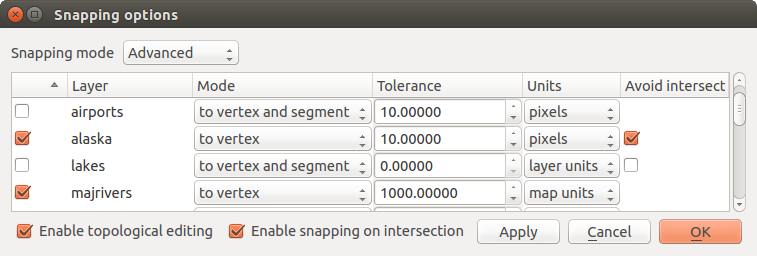
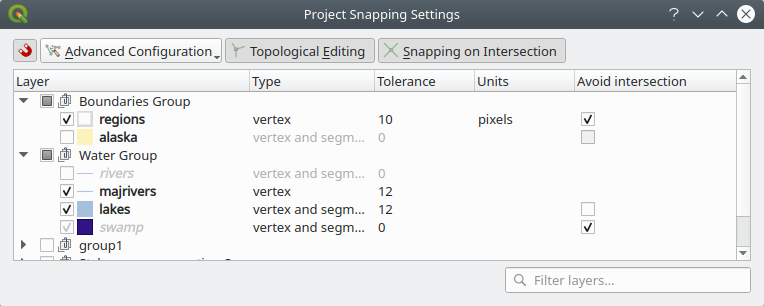
Rewords digitizing snapping options

Changed region(s): [[0.0, 0.0, 1.0, 0.9688], [0.9419, 0.4688, 1.0, 0.7188]]

diff --git a/source/docs/user_manual/working_with_vector/editing_geometry_attributes.rst b/source/docs/user_manual/working_with_vector/editing_geometry_attributes.rst
@@ -37,7 +37,8 @@ Setting the Snapping Tolerance and Search Radius
 ================================================
 
 For an optimal and accurate edit of the vector layer geometries, we need to set
-an appropriate value of snapping tolerance and search radius for features vertices.
+an appropriate value of snapping tolerance and search radius for features
+vertices.
 
 
 .. index:: Snapping tolerance
@@ -45,89 +46,88 @@ an appropriate value of snapping tolerance and search radius for features vertic
 Snapping tolerance
 ------------------
 
-Snapping tolerance is the distance QGIS uses to ``search`` for the closest
-vertex and/or segment you are trying to connect to when you set a new vertex or
-move an existing vertex. If you aren't within the snapping tolerance, QGIS
+When you add a new vertex or move an existing one, snapping tolerance is the
+distance QGIS uses to search for the closest vertex or segment you are
+trying to connect to. If you aren't within the snapping tolerance, QGIS
 will leave the vertex where you release the mouse button, instead of snapping
-it to an existing vertex and/or segment.
+it to an existing vertex or segment.
+
 The snapping tolerance setting affects all tools that work with tolerance.
 
-#. A general, project-wide snapping tolerance can be defined by choosing
-   :menuselection:`Settings -->` |options| :menuselection:`Options...`,
-   :guilabel:`Digitizing` tab.
-   You can select between 'To vertex', 'To segment' or 'To vertex and segment'
-   as default snap mode. You can also define a default snapping tolerance and
-   a search radius for vertex edits. The tolerance can be set either in map
-   units or in pixels. The advantage of choosing pixels is that the snapping
-   tolerance doesn't have to be changed after zoom operations. In our small
-   digitizing project (working with the Alaska dataset), we define the
-   snapping units in feet. Your results may vary, but something on the order
-   of 300 ft at a scale of 1:10000 should be a reasonable setting.
-#. A layer-based snapping tolerance that overrides the global snapping options
-   can be defined by choosing :menuselection:`Project --> Snapping options`.
-   It helps to enable and adjust snapping mode and tolerance on a layer basis
-   (see figure_edit_snapping_). This dialog offers three different modes to
-   select the layer(s) to snap to:
+You can enable or disabled snapping by using the |snapping| :sup:`Enable
+snapping` button on the :guilabel:`Snapping Toolbar` or pressing :kbd:`S` at any
+time while you're on the map view. The toolbar is also very convenient to
+quickly configure the snapping mode, tolerance value, and units. Nevertheless,
+the snapping configurations can be set in :menuselection:`Project --> Snapping
+Options...`.
 
-   * :guilabel:`Current layer`: only the active layer is used, a convenient way
-     to ensure topology within the layer being edited
-   * :guilabel:`All layers`: a quick and simple setting for all visible layers
-     in the project so that the pointer snaps to all vertices and/or segments.
-     In most cases it is sufficient to use this snapping mode.
-   * :guilabel:`Advanced`: if you need to edit a layer and snap its vertices to another
-     layer, ensure the target layer is checked and increase the snapping tolerance
-     to a greater value. Furthermore, snapping will never occur to a layer that
-     is not checked in the snapping options dialog, regardless of the global
-     snapping tolerance. So be sure to mark the checkbox for those layers that
-     you need to snap to.
+There are three options to select the layer(s) to snap to:
 
+* :guilabel:`All layers`: quick setting for all visible layers
+  in the project so that the pointer snaps to all vertices and/or segments.
+  In most cases, it is sufficient to use this snapping mode, but beware when
+  using it on projects with too many vector layers, as it may cause
+  slowness.
+* :guilabel:`Current layer`: only the active layer is used, a convenient way
+  to ensure topology within the layer being edited
+* :guilabel:`Advanced Configuration`: allows you to enable and adjust snapping
+  mode and tolerance on a layer basis (see figure_edit_snapping_). If you need
+  to edit a layer and snap its vertices to another, ensure the target layer
+  is checked and increase the snapping tolerance to a higher value.
+  Furthermore, snapping will not occur to a layer that is not checked in the
+  snapping options dialog.
+
+As for snapping mode, you can select between ``To vertex``, ``To segment``, and
+``To vertex and segment``.
+
+The tolerance values can be set either in the project's ``map units`` or in
+``pixels``. The advantage of choosing ``pixels`` is that it keeps the snapping
+constant at different map scales. 10 to 12 pixels is normally a good value, but
+it may depend on the DPI of your screen. On the other hand, using map units
+allows the tolerance to be related to real ground distances. For example, if you
+have a minimum distance between elements, this option can be useful to ensure
+that you don’t add vertexes too close to each other.
 
 .. _figure_edit_snapping:
 
 .. figure:: img/editProjectSnapping.png
    :align: center
 
-   Edit snapping options on a layer basis (Advanced mode)
+   Snapping options (Advanced Configuration mode)
 
-.. tip:: **Control the list of layers to snap**
+.. note::
 
-   The :guilabel:`Snapping Options` dialog is by default populated with parameters
-   (mode, tolerance, units) set in the global :guilabel:`Digitizing` tab.
-   To avoid layers being checked by default in the **Advanced** mode and hence
-   set snappable, define the :guilabel:`Default Snap mode` to ``Off``.
+   By default, only visible features (the features whose style is displayed,
+   except for layers where the symbology is "No symbols") can be snapped. You
+   can enable the snapping on invisible features by checking |unchecked|
+   :guilabel:`Enable snapping on invisible features` under
+   :menuselection:`Settings --> Options --> Digitizing` tab.
 
-.. tip:: **Quickly toggle snapping**
+.. tip:: **Enable snapping by default**
 
-   You can quickly enable or disable snapping by clicking the |snapping| :sup:`Enable
-   Snapping` icon or pressing :kbd:`S` at any time while you're in the map view.
+   You can set snapping to be enabled by default on all new projects in
+   :menuselection:`Settings --> Options --> Digitizing` tab. You can also set
+   the default snapping mode, tolerance value, and units, which will populate
+   the :guilabel:`Snapping Options` dialog.
 
-Snapping tolerance can be set in ``pixels`` or ``map units`` (the units of the
-map view). While in the **Advanced** layer selection mode, it is possible to use
-a snapping tolerance that refers to ``layer units``, the units of the reprojected
-layer when 'on-the-fly' CRS transformation is on.
 
-By default, only visible features (the features whose style is displayed,
-except for layers where the symbology is "No symbols") can be snapped.
-You can enable the snapping on invisible features by checking
-|unchecked| :guilabel:`Enable snapping on invisible features` under
-:menuselection:`Settings -->` |options| :menuselection:`Options --> Digitizing` tab.
 
 .. index:: Search radius
 
 Search radius
 --------------
 
-Search radius is the distance QGIS uses to ``search`` for the closest vertex
-you are trying to select when you click on the map. If you aren't within the
-search radius, QGIS won't find and select any vertex for editing.
-The search radius for vertex edits can be defined under :menuselection:`Settings -->`
-|options| :menuselection:`Options --> Digitizing` tab. This is the same
-place where you define the general, project-wide snapping tolerance.
+Search radius is the distance QGIS uses to ``search`` for the closest vertex you
+are trying to select when you click on the map. If you aren't within the search
+radius, QGIS won't find and select any vertex for editing. The search radius for
+vertex edits can be defined under :menuselection:`Settings -->` |options|
+:menuselection:`Options --> Digitizing` tab. This is the same place where you
+define the snapping default values.
 
-Snap tolerance and search radius are set in ``map units`` or ``pixels``, so you may
-find you need to experiment to get them set right. If you specify too big of
+Snap tolerance and search radius are set in ``map units`` or ``pixels``, so you
+may find you need to experiment to get them set right. If you specify too big of
 a tolerance, QGIS may snap to the wrong vertex, especially if you are dealing
-with a large number of vertices in close proximity. Set search radius too
+with a large number of vertices in close proximity. Set the search radius too
 small, and it won't find anything to move.
 
 
@@ -217,7 +217,7 @@ you no longer need to manually place all the vertices during digitization:
 #. Move the mouse over another vertex or segment you'd like to snap and, instead
    of the usual straight line, the digitizing rubber band represents a path from
    the last point you snapped to the current position.
-   
+
    QGIS actually uses the underlying features topology to build the shortest path
    between the two points. Tracing requires snapping to be activated in traceable
    layers to build the path. You should also snap to an existing vertex or segment
@@ -241,7 +241,7 @@ and a negative value does the opposite.
 
    This tool does not add points to existing polygon geometries even if :guilabel:`Topological editing`
    is enabled.
-   If geometry precision is activated on the edited layer, the resulting 
+   If geometry precision is activated on the edited layer, the resulting
    geometry might not exactly follow an existing geometry.
 
 .. tip:: **Quickly enable or disable automatic tracing by pressing the** :kbd:`T` **key**
@@ -405,7 +405,7 @@ Vertex tool
     workflow. This allows major improvements like taking profit of the advanced
     digitizing panel with the vertex tool while digitizing or editing objects of
     multiple layers at the same time.
-    
+
 
 For any editable vector layer, the
 |vertexToolActiveLayer| :sup:`Vertex tool (Current Layer)` provides manipulation
@@ -522,13 +522,13 @@ and your vertex position is updated. You can also select multiple rows and delet
 them altogether.
 
 .. note:: **Changed behavior in QGIS 3.4**
-    
+
    Right click on a feature will immediately show the vertex editor and lock this feature,
    thus disabling the editing of any other features. While being locked, a feature is exclusive
    for editing: Selecting and moving of vertices and segments by clicking or dragging is only possible
    for this feature. New vertices can only be added to the locked feature. Also, the vertex editor panel
    now opens itself automatically upon activating the vertex tool, and its position/docked state remembered across uses.
-  
+
 .. _figure_edit_vertex:
 
 .. figure:: img/vertex_editor_panel.png
@@ -805,7 +805,7 @@ features in the map canvas:
 #. Press the |rotateFeature| :sup:`Rotate Feature(s)` icon
 #. Then click on the feature to rotate. The feature's centroid is referenced as
    rotation center, a preview of the rotated feature is displayed and a widget
-   opens showing the current :guilabel:`Rotation` angle. 
+   opens showing the current :guilabel:`Rotation` angle.
 #. Click on the map canvas when you are satisfied with the new placement or
    manually enter the rotation angle in the text box. You can also use the
    :guilabel:`Snap to °` box to constrain the rotation values.
@@ -1113,12 +1113,12 @@ a multipolygon/multipolyline/multipoint feature is created.
      Sum, Count, Concatenation... depending on the type of the field.
      see :ref:`statistical_summary` for the full list of functions).
 
-   .. note:: 
+   .. note::
     If the layer has default values or clauses present on fields,
     these are used as the initial value for the merged feature.
 
 #. Press :guilabel:`OK` to apply the modifications. A single (multi)feature is
-   created in the layer, replacing the previously selected ones. 
+   created in the layer, replacing the previously selected ones.
 
 .. index::
    single: Digitizing tools; Merge Attributes
@@ -1151,7 +1151,7 @@ rotation of point symbols in the map canvas.
       the symbol editor dialog.
    #. Click the |dataDefined| :guilabel:`Data-defined override` widget near the
       :guilabel:`Rotation` option of the top :guilabel:`Marker` level (preferably)
-      of the symbol layers. 
+      of the symbol layers.
    #. Choose a field in the :guilabel:`Field Type` combobox. Values of this
       field are hence used to rotate each feature's symbol accordingly.
 
@@ -1213,7 +1213,7 @@ of the lines that is concerned; any segment of a geometry can be modified.
 .. note:: This can lead to invalid geometries.
 
 .. note:: You must activate segment snapping for this tool to work.
- 
+
 The tool asks you to select a limit (a segment) with respect to which another
 segment will be extended or trimmed. Unlike the node tool, a check is performed to
 modify only the layer being edited.
@@ -1523,7 +1523,7 @@ To edit features in-place:
    * They do not change the geometry type, e.g. from line to point layer.
 
    .. figure:: img/edit_inplace_algorithms.png
-      :align: center 
+      :align: center
 
       Processing algorithms: all (left) vs polygon in-place editors (right)
 
@@ -1537,7 +1537,7 @@ To edit features in-place:
       the algorithm dialog pops up. Fill in the required information.
    #. Click :guilabel:`Modify Selected Features` or :guilabel:`Modify All Features`
       depending on whether there's an active selection.
-   
+
    Changes are applied to the layer and placed in the edit buffer: the layer
    is indeed toggled to editing mode with unsaved modification as indicated by
    the |editableEdits| icon next to the layer name.

diff --git a/source/docs/user_manual/introduction/qgis_configuration.rst b/source/docs/user_manual/introduction/qgis_configuration.rst
@@ -553,7 +553,8 @@ This tab helps you configure general settings when :ref:`editing vector layer
 
 **Snapping**
 
-* |checkbox| :guilabel:`Enable snapping by default`
+* |checkbox| :guilabel:`Enable snapping by default` activates snapping when
+  a project is opened
 * Define :guilabel:`Default snap mode` |selectString| ('Vertex', 'Vertex and segment',
   'Segment')
 * Define :guilabel:`Default snapping tolerance` in map units or pixels
@@ -643,7 +644,7 @@ GDAL driver options
 ...................
 
 This frame provides ways to customize the behavior of drivers that support read
-and write access: 
+and write access:
 
 .. _gdal_createoptions:
 
